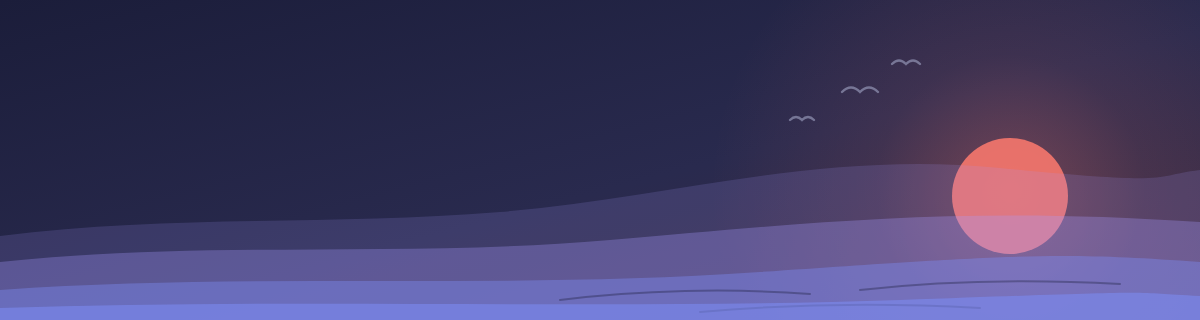
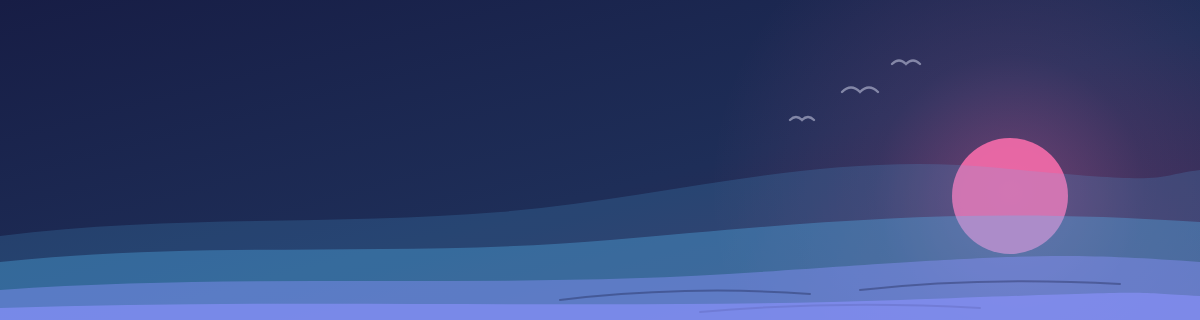
feat(design): greeting scenes in the new palette
scenes.js's fixed LIGHT and DARK palettes now use the design system's
values (surface, ink-3, c1–c5 and the rail from system/tokens.css), and
the SVG and PNG exports for all four times of day, light and dark, are
regenerated with export.js. The apps, which colour the scenes with CSS
variables, are unchanged.

Claude-Session: https://claude.ai/code/session_0117xLtfQC6BzcmLYMUFuCkT

Changed region(s): [[0.0, 0.4062, 1.0, 0.9062]]

diff --git a/design/brand/greeting/scenes.js b/design/brand/greeting/scenes.js
@@ -21,9 +21,10 @@
   }
 
   // Palettes. The prototypes use CSS variables so the scene follows the theme; asset export uses hex.
-  const VARS = {surface: 'var(--surface)', ink3: 'var(--ink-3)', c1: 'var(--c1)', c2: 'var(--c2)', c3: 'var(--c3)', c4: 'var(--c4)', c5: 'var(--c5)', deep: 'var(--rail, #1F2559)'};
-  const LIGHT = {surface: '#FFFFFF', ink3: '#7D7A90', c1: '#E5534B', c2: '#3B4AA8', c3: '#8B7CF6', c4: '#F2A93B', c5: '#2BB0A0', deep: '#1F2559'};
-  const DARK = {surface: '#1B1D3A', ink3: '#9395B5', c1: '#FF7A6E', c2: '#7B8BF0', c3: '#A99BFF', c4: '#F5B95A', c5: '#3CC7B5', deep: '#0D0E22'};
+  const VARS = {surface: 'var(--surface)', ink3: 'var(--ink-3)', c1: 'var(--c1)', c2: 'var(--c2)', c3: 'var(--c3)', c4: 'var(--c4)', c5: 'var(--c5)', deep: 'var(--rail, #101632)'};
+  // Values from design/system/tokens.css (light and dark): surface, ink-3, c1–c5 and the rail.
+  const LIGHT = {surface: '#FFFFFF', ink3: '#5A5F7B', c1: '#E0478A', c2: '#4048B8', c3: '#1F8ACF', c4: '#D9640B', c5: '#4E8A12', deep: '#101632'};
+  const DARK = {surface: '#171D45', ink3: '#A9ACC8', c1: '#FF6FAE', c2: '#8C93FF', c3: '#59C3FF', c4: '#FF9B45', c5: '#C8F169', deep: '#0A0D24'};
 
   const hex = s => /^#[0-9a-f]{6}$/i.test(s);
   const toRgb = h => [1, 3, 5].map(i => parseInt(h.slice(i, i + 2), 16));
